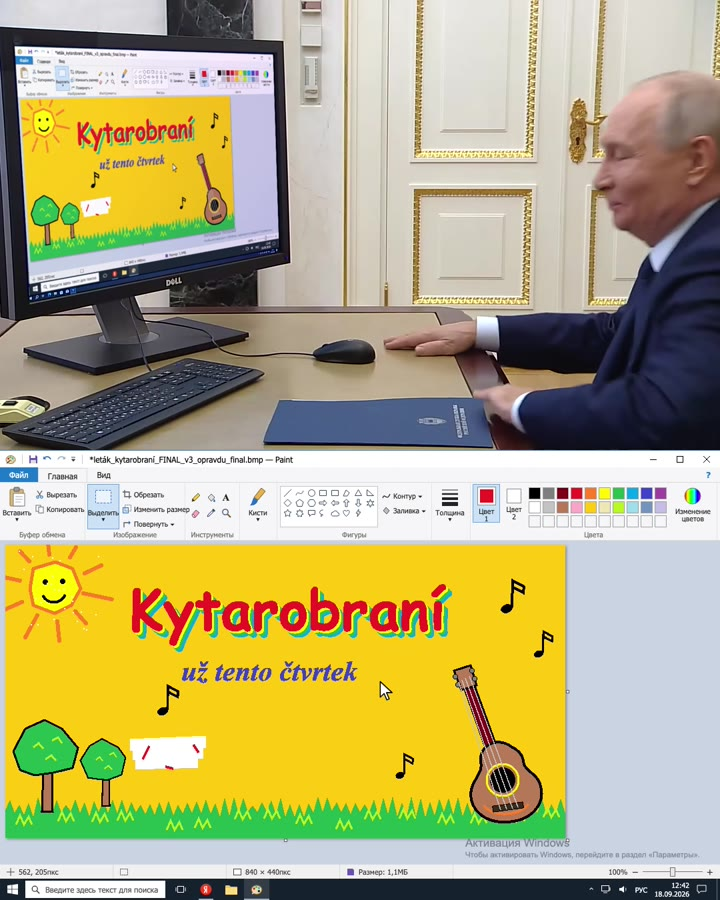
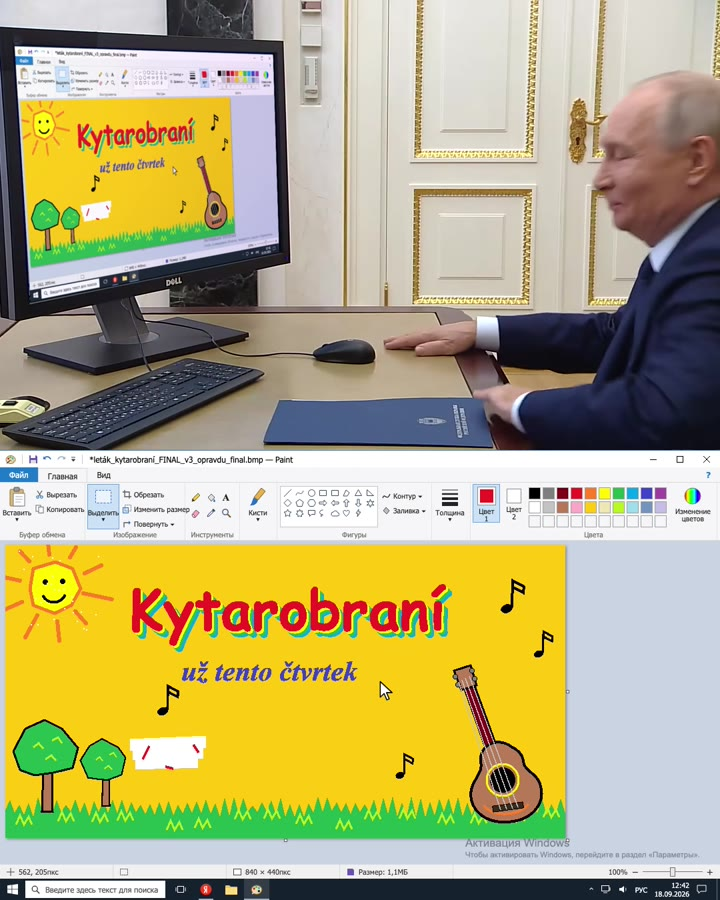
Fixes from a blind test run by a fresh agent
- monitor quad now covers the whole panel (the dark taskbar is not part of the lit area),
  find_screen_quad.py gets --dark-bottom for the same trap
- engine: silent {type:'call'} timed events; header documents label, snapshot ctx, hand cursor
- render_screen.py: --events / --times preview modes
- new bursts.py: hand travel per window -> plausible cursor distance
- every script has real --help; new_project.py accepts --project; no bytecode in the skill dir
- verify_sync.py: fixed table columns, documented legend and pass criteria
- first click of the double click moved to 9.78 s (was 20 ms early)
- docs: required DOM for the engine, project-local clip override, captions belong in the fake screen

Claude-Session: https://claude.ai/code/session_01W6y3hsGt7N4Dzx5UKaTC9m

Changed region(s): [[0.0306, 0.0622, 0.3972, 0.3422]]

diff --git a/skills/click-sync-meme/template/engine.js b/skills/click-sync-meme/template/engine.js
@@ -12,14 +12,18 @@
 //             by  = relative to wherever the cursor is when the move starts
 //             prof = 'hand' (default) | 'ease' | 'easeOut'   use ease* where tracking is unreliable or the hand barely moves
 //             arc = px of sideways bow, makes free moves look human
-//   events  [{t, type:'press'|'release', synthetic?, reinforce?, ...your own fields}]   sorted by t
+//   events  [{t, type:'press'|'release', synthetic?, reinforce?, label?, ...your own fields}]   sorted by t
 //             t should sit on a real audio transient (see clips/<id>/clicks.json). Where the story needs a click the
 //             microphone did not catch, set synthetic:true and the build mixes a cloned click sound in at that time;
 //             reinforce:true does the same, quieter, on top of a real but faint click.
+//             label names the row in verify_sync.py's table (defaults to e.grab or e.btn).
+//           {t, type:'call', fn(ctx)}   silent timed hook for things the mouse did not do (the computer's reply in a game,
+//             a dialog popping up): no ripple, no sound, not part of the sync check.
 //   onPress(e, ctx) / onRelease(e, ctx)   scene logic. ctx = {cur:[x,y], i, t, startDrag(obj)}; obj needs numeric x,y.
 //             A drag ends automatically on the next release (after onRelease ran).
 //   snapshot(ctx) -> any   called once per frame after moves/events/drag were applied; return everything apply() needs,
-//             including cursor:'arrow'|'move'. ctx = {cur, i, t, dragging}
+//             including cursor:'arrow'|'move'|'hand'. ctx = {cur, i, t, dragging}. Runs for every frame in order, so it may
+//             also derive per-frame things (hover highlights, blinking) from ctx.i / ctx.t.
 //   apply(s, frame, i)     put snapshot s on the DOM. frame = {cx, cy, ripples, s}
 //   start   [x,y] initial cursor position;  origin [x,y] screen position of the coordinate system used by moves
 //
@@ -69,6 +73,7 @@ const Engine = (() => {
       while (ei < events.length && i >= Math.round(events[ei].t * FPS)) {
         const e = events[ei++];
         const ctx = { cur, i, t, startDrag: (o) => { drag = { o, ox: o.x - cur[0], oy: o.y - cur[1] }; } };
+        if (e.type === 'call') { e.fn(ctx); continue; }
         if (e.type === 'press') { ripples.push({ x: cur[0], y: cur[1], f: i }); if (c.onPress) c.onPress(e, ctx); }
         else { if (c.onRelease) c.onRelease(e, ctx); drag = null; }
       }
@@ -80,7 +85,7 @@ const Engine = (() => {
       });
     }
     // read back by scripts/render_screen.py -> build/events.json (used for synthetic clicks and the sync check)
-    window.EVENTS = events.map(e => ({ t: e.t, type: e.type, synthetic: !!e.synthetic, reinforce: !!e.reinforce, label: e.label || e.grab || e.btn || '' }));
+    window.EVENTS = events.filter(e => e.type !== 'call').map(e => ({ t: e.t, type: e.type, synthetic: !!e.synthetic, reinforce: !!e.reinforce, label: e.label || e.grab || e.btn || '' }));
     window.renderFrame = renderFrame;
     renderFrame(0);
     window.READY = true;

diff --git a/skills/click-sync-meme/template/scene.js b/skills/click-sync-meme/template/scene.js
@@ -122,16 +122,16 @@ const moves = [
 // press/release times are real audio transients, except those marked synthetic (a cloned click gets mixed in there)
 const events = [
   { t: 7.61, type: 'press', grab: 'title' },
-  { t: 8.63, type: 'release' },
-  { t: 9.76, type: 'press', btn: 'bigger' }, { t: 9.84, type: 'release' },
-  { t: 11.108, type: 'press', btn: 'bigger' }, { t: 11.226, type: 'release' },
+  { t: 8.63, type: 'release', label: 'drop title' },
+  { t: 9.78, type: 'press', btn: 'bigger' }, { t: 9.86, type: 'release', label: 'grow 1' },
+  { t: 11.108, type: 'press', btn: 'bigger' }, { t: 11.226, type: 'release', label: 'grow 2' },
   { t: 19.40, type: 'press', grab: 'guitar', synthetic: true },
-  { t: 23.88, type: 'release' },
-  { t: 27.52, type: 'press', btn: 'flip', reinforce: true }, { t: 27.61, type: 'release', reinforce: true },   // real click, but very faint
-  { t: 30.514, type: 'press', grab: 'sub', clickOnly: true }, { t: 30.70, type: 'release' },
+  { t: 23.88, type: 'release', label: 'drop guitar' },
+  { t: 27.52, type: 'press', btn: 'flip', reinforce: true }, { t: 27.61, type: 'release', reinforce: true, label: 'flipped' },   // real click, but very faint
+  { t: 30.514, type: 'press', grab: 'sub', clickOnly: true }, { t: 30.70, type: 'release', label: 'selected' },
   { t: 32.34, type: 'press', grab: 'sub', synthetic: true },
-  { t: 33.97, type: 'release', synthetic: true },
-  { t: 34.964, type: 'press', deselect: true }, { t: 35.086, type: 'release' },
+  { t: 33.97, type: 'release', synthetic: true, label: 'drop sub' },
+  { t: 34.964, type: 'press', deselect: true, label: 'deselect' }, { t: 35.086, type: 'release', label: 'done' },
 ];
 
 function onPress(e, ctx) {

diff --git a/skills/click-sync-meme/template/screen.html b/skills/click-sync-meme/template/screen.html
@@ -234,6 +234,8 @@
   </div>
 
 
+  <!-- REQUIRED BY ENGINE: #ripples and #cursor (plus the #cursor / .ripple CSS rules, body{cursor:none}, a fixed 1080x675 #screen,
+       and the script order hand.js -> engine.js -> scene.js). Everything else in this file is the example app and can go. -->
   <div id="ripples"></div>
   <div id="cursor"></div>
 </div>

diff --git a/skills/click-sync-meme/scripts/render_screen.py b/skills/click-sync-meme/scripts/render_screen.py
@@ -1,24 +1,28 @@
 #!/usr/bin/env python3
 """Render the fake screen (screen/screen.html) frame by frame with headless Chromium.
 
-  render_screen.py [--project DIR] [--size 1080x675] [--frames 0 150 300]   (no --frames = all)
+  render_screen.py [--project DIR] [--size 1080x675]                 all frames
+  render_screen.py --events                                          previews: the frame after every press/release (+ 1 frame before each press)
+  render_screen.py --times 7.7 20.2 33.0 | --frames 185 484 792      previews at source-clip seconds / frame numbers
 
 Writes build/frames/NNNNN.png, build/events.json (the scene's press/release list, used by build_video.py
 and verify_sync.py) and build/final_screen.png (last frame, used for the on-monitor composite).
-With --frames it writes previews to build/preview/ instead and leaves build/frames alone.
+Preview modes write to build/preview/ (named by frame number) and leave build/frames alone.
 """
 import argparse, json, pathlib, sys
 from playwright.sync_api import sync_playwright
 
-ap = argparse.ArgumentParser()
-ap.add_argument('--project', default='.')
-ap.add_argument('--size', default='1080x675')
-ap.add_argument('--frames', nargs='*', type=int)
+ap = argparse.ArgumentParser(description=__doc__, formatter_class=argparse.RawDescriptionHelpFormatter)
+ap.add_argument('--project', default='.', help='project directory (default: current dir)')
+ap.add_argument('--size', default='1080x675', help='viewport of screen.html (default 1080x675 = 16:10, matches the top pane)')
+ap.add_argument('--frames', nargs='*', type=int, help='preview these source frame numbers')
+ap.add_argument('--times', nargs='*', type=float, help='preview these source-clip seconds')
+ap.add_argument('--events', action='store_true', help='preview around every scripted press/release')
 a = ap.parse_args()
 proj = pathlib.Path(a.project).resolve()
 w, h = map(int, a.size.split('x'))
 page_url = (proj / 'screen' / 'screen.html').as_uri()
-preview = bool(a.frames)
+preview = bool(a.frames or a.times or a.events)
 out = proj / 'build' / ('preview' if preview else 'frames'); out.mkdir(parents=True, exist_ok=True)
 if not preview:
     for f in out.glob('*.png'): f.unlink()
@@ -36,7 +40,13 @@ with sync_playwright() as p:
         sys.exit('screen.html never set window.READY — page errors: ' + ('; '.join(errors) or 'none (did Engine.run() get called?)'))
     n = pg.evaluate('HAND.n')
     (proj / 'build' / 'events.json').write_text(json.dumps(dict(fps=pg.evaluate('HAND.fps'), frames=n, events=pg.evaluate('window.EVENTS')), indent=1))
-    todo = a.frames if preview else range(n)
+    fps = pg.evaluate('HAND.fps'); todo = range(n)
+    if preview:
+        want = set(a.frames or []) | {round(t * fps) for t in (a.times or [])}
+        if a.events:
+            for e in pg.evaluate('window.EVENTS'):
+                f = round(e['t'] * fps); want |= {f + 1} | ({f - 1} if e['type'] == 'press' else set())
+        todo = sorted(f for f in want if 0 <= f < n)
     for i in todo:
         pg.evaluate(f'renderFrame({i})')
         pg.screenshot(path=str(out / f'{i:05d}.png'), clip=dict(x=0, y=0, width=w, height=h))

diff --git a/skills/click-sync-meme/scripts/verify_sync.py b/skills/click-sync-meme/scripts/verify_sync.py
@@ -8,7 +8,14 @@
 2. Click alignment: every press/release in build/events.json must have an audio transient within one video frame
    (42 ms at 24 fps) in the FINAL file. A real click that is too faint to detect shows up as "none" — consider
    reinforce:true for it in the scene.
+
+Table columns: time in the finished video, event, label, source of the sound, measured offset.
+  real = the clip's own click   real+ = real click with a quieter clone layered on (reinforce)   cloned = synthetic click
+A constant +10..15 ms is normal (detector + AAC latency); what matters is that nothing exceeds one frame.
+Passes (exit 0) when every matched frame is the expected one and the worst offset is <= one frame. The last line reads e.g.
+  frames OK; worst click offset 33 ms (one frame = 42 ms); 0 event(s) without an audible transient
 """
+import sys; sys.dont_write_bytecode = True      # keep the skill directory clean
 import argparse, json, subprocess, tempfile, os
 import cv2, numpy as np
 from scipy.io import wavfile
@@ -16,7 +23,7 @@ from scipy.signal import butter, sosfilt
 from scipy.ndimage import median_filter
 from _common import project, clip_pack, fps_of
 
-ap = argparse.ArgumentParser(); ap.add_argument('--project', default='.'); a = ap.parse_args()
+ap = argparse.ArgumentParser(description=__doc__, formatter_class=argparse.RawDescriptionHelpFormatter); ap.add_argument('--project', default='.', help='project directory (default: current dir)'); a = ap.parse_args()
 proj, pj = project(a.project); pack, clip = clip_pack(pj['clip'], proj); fps = fps_of(clip)
 lb = json.loads((proj / 'build' / 'last_build.json').read_text()); start, th, sw = lb['start_frame'], lb['top_h'], lb['width']
 ev = json.loads((proj / 'build' / 'events.json').read_text())['events']
@@ -55,8 +62,9 @@ for e in ev:
     near = min(on, key=lambda o: abs(o - te)) if on else None
     d = None if near is None or abs(near - te) > 0.12 else (near - te) * 1000
     tag = 'cloned' if e['synthetic'] else ('real+' if e['reinforce'] else 'real')
-    if d is None: missing += 1; print(f"  {te:7.3f}s {e['type']:8s}{e['label']:10s}{tag:7s} none within 120 ms")
-    else: worst = max(worst, abs(d)); print(f"  {te:7.3f}s {e['type']:8s}{e['label']:10s}{tag:7s} audio {d:+5.0f} ms")
+    lab = e['label'][:18]
+    if d is None: missing += 1; print(f"  {te:7.3f}s  {e['type']:8s} {lab:18s} {tag:7s} none within 120 ms")
+    else: worst = max(worst, abs(d)); print(f"  {te:7.3f}s  {e['type']:8s} {lab:18s} {tag:7s} audio {d:+5.0f} ms")
 frame_ms = 1000 / fps
 print(f'\nframes {"OK" if ok_frames else "MISALIGNED"}; worst click offset {worst:.0f} ms (one frame = {frame_ms:.0f} ms); {missing} event(s) without an audible transient')
 raise SystemExit(0 if ok_frames and worst <= frame_ms else 1)

diff --git a/skills/click-sync-meme/scripts/find_screen_quad.py b/skills/click-sync-meme/scripts/find_screen_quad.py
@@ -7,12 +7,16 @@ Thresholds the bright screen inside the ROI, then fits a straight line to the MI
 intersects the lines. Using only the middle of each side matters: corners are often polluted (a watermark,
 a reflection, rounded bezel) and a plain contour->polygon approximation gets them wrong by tens of pixels.
 Prints TL, TR, BR, BL — paste into clip.json -> monitor.quad. Check the debug image before trusting it.
+
+Trap: a dark taskbar/dock is part of the panel but not of the LIT area, so the measured bottom edge stops above it and the
+real taskbar stays visible under your composite. Use --dark-bottom (or measure that edge by hand) so the quad covers the whole panel.
 """
 import argparse, json
 import cv2, numpy as np
-ap = argparse.ArgumentParser()
-ap.add_argument('video'); ap.add_argument('--frame', type=int, required=True); ap.add_argument('--roi', required=True)
-ap.add_argument('--thr', type=int, default=140); ap.add_argument('--debug')
+ap = argparse.ArgumentParser(description=__doc__, formatter_class=argparse.RawDescriptionHelpFormatter)
+ap.add_argument('video'); ap.add_argument('--frame', type=int, required=True, help='source frame number to analyse'); ap.add_argument('--roi', required=True, help='x0,y0,x1,y1 rectangle that contains the whole screen and little else bright')
+ap.add_argument('--thr', type=int, default=140, help='grey level separating lit screen from bezel (default 140)'); ap.add_argument('--debug', help='write the frame with the quad drawn on it to this file')
+ap.add_argument('--dark-bottom', type=float, default=0, help='fraction of the panel height occupied by a dark taskbar/dock below the lit area, e.g. 0.025 for a Windows 10 taskbar on a 1200-line panel; the bottom edge is pushed down by that much')
 a = ap.parse_args()
 cap = cv2.VideoCapture(a.video); cap.set(cv2.CAP_PROP_POS_FRAMES, a.frame); ok, fr = cap.read()
 x0, y0, x1, y1 = map(int, a.roi.split(','))
@@ -39,6 +43,9 @@ for band in (45, 10, 5):                       # coarse -> fine: refit each side
         sel = pts[(along > 0.2 * L) & (along < 0.8 * L) & (dist < band)]
         vx, vy, px, py = cv2.fitLine(sel, cv2.DIST_HUBER, 0, 0.01, 0.01).ravel(); lines.append((np.array([px, py]), np.array([vx, vy])))
     quad = np.array([inter(lines[3], lines[0]), inter(lines[0], lines[1]), inter(lines[1], lines[2]), inter(lines[2], lines[3])], np.float32)
+if a.dark_bottom:
+    f = a.dark_bottom / (1 - a.dark_bottom)          # lit height = (1 - fraction) of the panel
+    quad[3] = quad[3] + (quad[3] - quad[0]) * f; quad[2] = quad[2] + (quad[2] - quad[1]) * f
 out = [[round(float(x), 1), round(float(y), 1)] for x, y in quad]
 print(json.dumps(out))
 if a.debug:

diff --git a/skills/click-sync-meme/scripts/contact_sheet.py b/skills/click-sync-meme/scripts/contact_sheet.py
@@ -1,16 +1,16 @@
 #!/usr/bin/env python3
 """Timestamped tile sheet of a clip, so you can SEE what happens when (Read the resulting JPG).
 
-  contact_sheet.py VIDEO OUT.jpg [--fps 1] [--from 0] [--to END] [--crop x:y:w:h] [--cols 6] [--width 480]
+  contact_sheet.py VIDEO OUT.jpg [--fps 1] [--from 0] [--to END] [--crop w:h:x:y] [--cols 6] [--width 480]
 
 Typical use: whole clip at 1 fps for the story beats, then 4-6 fps with --crop around the hand for the moments
 where the hand leaves or returns to the mouse.
 """
 import argparse, math, subprocess, json
-ap = argparse.ArgumentParser()
-ap.add_argument('video'); ap.add_argument('out')
-ap.add_argument('--fps', type=float, default=1); ap.add_argument('--from', dest='t0', type=float, default=0); ap.add_argument('--to', dest='t1', type=float)
-ap.add_argument('--crop'); ap.add_argument('--cols', type=int, default=6); ap.add_argument('--width', type=int, default=480)
+ap = argparse.ArgumentParser(description=__doc__, formatter_class=argparse.RawDescriptionHelpFormatter)
+ap.add_argument('video'); ap.add_argument('out', help='output JPG')
+ap.add_argument('--fps', type=float, default=1, help='tiles per second of video (default 1)'); ap.add_argument('--from', dest='t0', type=float, default=0, help='start second'); ap.add_argument('--to', dest='t1', type=float, help='end second (default: end of clip)')
+ap.add_argument('--crop', help='w:h:x:y in source pixels (ffmpeg crop syntax), e.g. around the hand'); ap.add_argument('--cols', type=int, default=6, help='tiles per row'); ap.add_argument('--width', type=int, default=480, help='tile width in px')
 a = ap.parse_args()
 dur = float(json.loads(subprocess.run(['ffprobe', '-v', 'error', '-show_entries', 'format=duration', '-of', 'json', a.video], capture_output=True, text=True).stdout)['format']['duration'])
 t1 = min(a.t1 or dur, dur); n = max(1, int(math.ceil((t1 - a.t0) * a.fps))); rows = math.ceil(n / a.cols)

diff --git a/skills/click-sync-meme/scripts/bursts.py b/skills/click-sync-meme/scripts/bursts.py
@@ -1,0 +1,32 @@
+#!/usr/bin/env python3
+"""How far did the real hand travel, and so how far may the fake cursor plausibly go?
+
+  bursts.py [--project DIR]                      list every movement burst in screen/hand.js
+  bursts.py --windows 7.15-7.6 19.44-20.17       hand travel inside the time windows you plan to use for moves
+
+"cursor budget" = hand px x 9..15 (what one source pixel of hand travel is worth on a 1080-px-wide fake screen).
+Staying inside it keeps small hand movements from carrying the cursor across the whole screen, which is the most
+common way these videos stop looking real. Lay out the fake UI AFTER looking at this, so targets are reachable.
+"""
+import argparse, json, pathlib
+ap = argparse.ArgumentParser(description=__doc__, formatter_class=argparse.RawDescriptionHelpFormatter)
+ap.add_argument('--project', default='.', help='project directory (default: current dir)')
+ap.add_argument('--windows', nargs='*', help='t0-t1 pairs in source-clip seconds')
+a = ap.parse_args()
+H = json.loads((pathlib.Path(a.project) / 'screen' / 'hand.js').read_text().split('=', 1)[1].rstrip(';\n'))
+fps, sp = H['fps'], H['speed']; N = len(sp)
+def row(t0, t1):
+    px = sum(sp[max(0, int(t0 * fps) + 1):min(N, int(round(t1 * fps)) + 1)])
+    note = 'hand practically still -> engine eases; keep travel short' if px < 0.8 else ''
+    print(f'  {t0:6.2f}-{t1:6.2f}s  hand {px:5.1f} px   cursor budget ~{px * 9:4.0f}-{px * 15:4.0f} px   {note}')
+if a.windows:
+    for w in a.windows: t0, t1 = map(float, w.split('-')); row(t0, t1)
+else:
+    i = 0
+    while i < N:
+        if sp[i] > 0:
+            j = i
+            while j < N and (sp[j] > 0 or any(v > 0 for v in sp[j + 1:j + 3])): j += 1
+            if sum(sp[i:j]) > 0.6: row(i / fps, j / fps)
+            i = j
+        else: i += 1

diff --git a/skills/click-sync-meme/scripts/new_project.py b/skills/click-sync-meme/scripts/new_project.py
@@ -8,12 +8,16 @@ and drops the pack's measured hand.js next to it — you can go straight to edit
 With your own footage (--video FILE --clip my-name): copies the video and writes a skeleton clip/clip.json for you
 to fill in while following references/new-clip.md.
 """
-import argparse, json, pathlib, shutil, subprocess, sys
+import sys; sys.dont_write_bytecode = True      # keep the skill directory clean
+import argparse, json, pathlib, shutil, subprocess
 from _common import SKILL_DIR
 
-ap = argparse.ArgumentParser()
-ap.add_argument('--dir', default='.'); ap.add_argument('--clip', default='putin-vote-2026')
-ap.add_argument('--video'); ap.add_argument('--no-download', action='store_true'); ap.add_argument('--force', action='store_true')
+ap = argparse.ArgumentParser(description=__doc__, formatter_class=argparse.RawDescriptionHelpFormatter)
+ap.add_argument('--dir', '--project', dest='dir', default='.', help='project directory to create/fill (default: current dir)')
+ap.add_argument('--clip', default='putin-vote-2026', help='id of a bundled clip pack (see clips/), or a new id for your own footage')
+ap.add_argument('--video', help='use this local video file as src/clip.mp4 instead of downloading (required for your own footage)')
+ap.add_argument('--no-download', action='store_true', help='do not fetch the clip (you will put src/clip.mp4 there yourself)')
+ap.add_argument('--force', action='store_true', help='overwrite screen/, project.json and a skeleton clip.json that already exist')
 a = ap.parse_args()
 proj = pathlib.Path(a.dir).resolve(); (proj / 'src').mkdir(parents=True, exist_ok=True); (proj / 'build').mkdir(exist_ok=True)
 pack = SKILL_DIR / 'clips' / a.clip

diff --git a/skills/click-sync-meme/scripts/build_video.py b/skills/click-sync-meme/scripts/build_video.py
@@ -9,11 +9,15 @@ Audio      = original track; for every event flagged synthetic/reinforce in buil
              the clip's own audio (clip.json -> audio.click_samples) is mixed in, so added clicks sound like his mouse.
 Trimming happens last, on the stacked video and the mixed audio together, which is why sync survives any --start-frame.
 """
+import sys; sys.dont_write_bytecode = True      # keep the skill directory clean
 import argparse, json, subprocess
 from _common import project, clip_pack, fps_of
 
-ap = argparse.ArgumentParser()
-ap.add_argument('--project', default='.'); ap.add_argument('--start-frame', type=int); ap.add_argument('--out'); ap.add_argument('--crf', type=int, default=17)
+ap = argparse.ArgumentParser(description=__doc__, formatter_class=argparse.RawDescriptionHelpFormatter)
+ap.add_argument('--project', default='.', help='project directory (default: current dir)')
+ap.add_argument('--start-frame', type=int, help='first SOURCE frame to keep (default: project.json start_frame, else the clip pack default; 0 = whole clip)')
+ap.add_argument('--out', help='output file name inside the project (default: project.json out, else meme.mp4)')
+ap.add_argument('--crf', type=int, default=17, help='x264 quality, lower = better/bigger (default 17)')
 a = ap.parse_args()
 proj, pj = project(a.project); pack, clip = clip_pack(pj['clip'], proj)
 fps = fps_of(clip); FPS = clip['fps']

diff --git a/skills/click-sync-meme/scripts/track_hand.py b/skills/click-sync-meme/scripts/track_hand.py
@@ -17,13 +17,16 @@ Writes (into the project's clip/ dir, or next to the clip pack when run with --p
   hand.js     `const HAND = {fps, n, speed[]}` — px the hand moved between consecutive frames; this paces the fake cursor
 and prints the movement bursts, which become the time windows of your cursor moves.
 """
+import sys; sys.dont_write_bytecode = True      # keep the skill directory clean
 import argparse, json, pathlib
 import cv2, numpy as np
 from scipy.ndimage import gaussian_filter1d
 from _common import project, clip_pack
 
-ap = argparse.ArgumentParser()
-ap.add_argument('--project', default='.'); ap.add_argument('--video'); ap.add_argument('--out')
+ap = argparse.ArgumentParser(description=__doc__, formatter_class=argparse.RawDescriptionHelpFormatter)
+ap.add_argument('--project', default='.', help='project directory (default: current dir)')
+ap.add_argument('--video', help='video to measure (default: <project>/src/clip.mp4)')
+ap.add_argument('--out', help='output directory for track.json and hand.js (default: <project>/clip)')
 a = ap.parse_args()
 proj, pj = project(a.project); pack, clip = clip_pack(pj['clip'], proj)
 cfg = clip['hand_tracking']; video = a.video or str(proj / 'src' / 'clip.mp4')

diff --git a/skills/click-sync-meme/scripts/detect_clicks.py b/skills/click-sync-meme/scripts/detect_clicks.py
@@ -15,10 +15,10 @@ from scipy.io import wavfile
 from scipy.signal import butter, sosfilt
 from scipy.ndimage import median_filter
 
-ap = argparse.ArgumentParser()
-ap.add_argument('video'); ap.add_argument('--out', default='clicks_raw.json')
-ap.add_argument('--hp', type=float, default=6000); ap.add_argument('--ratio', type=float, default=5)
-ap.add_argument('--from', dest='t0', type=float, default=0); ap.add_argument('--to', dest='t1', type=float, default=1e9)
+ap = argparse.ArgumentParser(description=__doc__, formatter_class=argparse.RawDescriptionHelpFormatter)
+ap.add_argument('video'); ap.add_argument('--out', default='clicks_raw.json', help='where to write the list (default clicks_raw.json)')
+ap.add_argument('--hp', type=float, default=6000, help='high-pass cutoff in Hz (default 6000)'); ap.add_argument('--ratio', type=float, default=5, help='how far above the local median a peak must be (default 5; lower finds fainter clicks and more junk)')
+ap.add_argument('--from', dest='t0', type=float, default=0, help='only report from this second'); ap.add_argument('--to', dest='t1', type=float, default=1e9, help='only report up to this second')
 a = ap.parse_args()
 
 wav = tempfile.mktemp(suffix='.wav')
